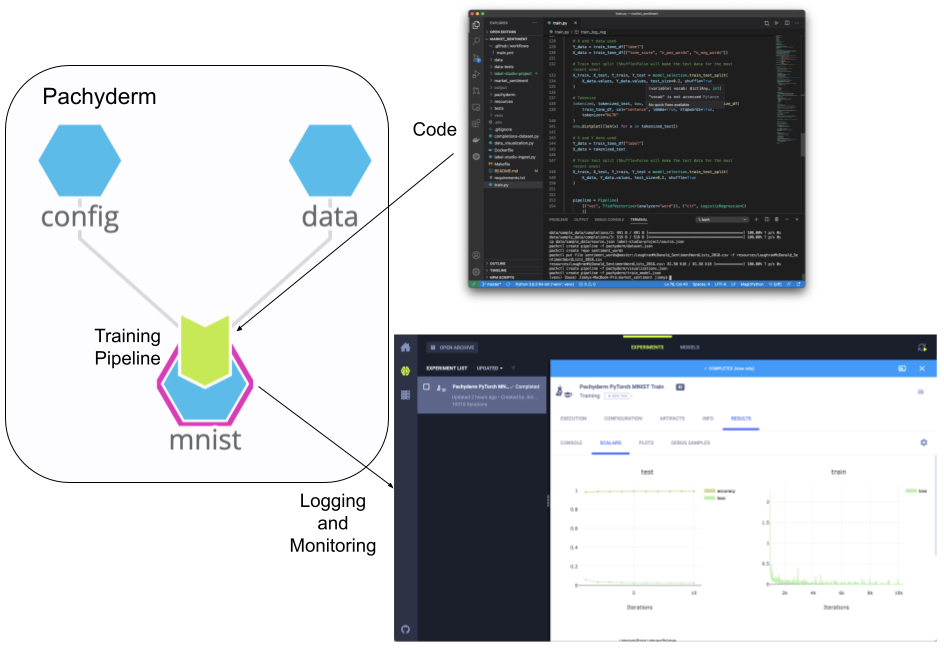
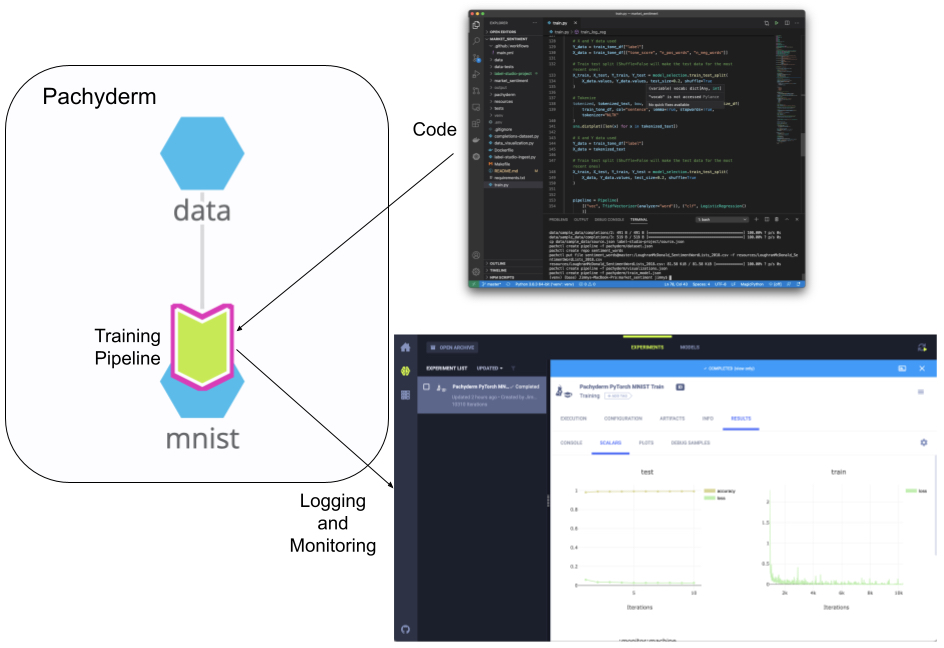
Converted credentials to pachyderm secret.

diff --git a/README.md b/README.md
@@ -11,8 +11,12 @@ This is a simple integration example where we use ClearML for monitoring our job
 
 1. [Spin up Pachyderm](https://hub.pachyderm.com/landing?redirect=%2F) (Using Pachyderm Hub) and connect to it.
 2. [Spin up ClearML](https://app.community.clear.ml) (Using ClearML Hosted Community Edition)
-3. [Create a ClearML config](https://allegro.ai/clearml/docs/docs/deploying_clearml/clearml_config_for_clearml_server.html#configuring-clearml-for-your-clearml-server). Copy the config to this directory as `clearml.conf` (this will be copied to a Pachyderm data repository so that it is not stored in the Docker image itself, but this should be changed in the future).
-4. Run the `make all`
+3. [Create a ClearML config](https://allegro.ai/clearml/docs/docs/deploying_clearml/clearml_config_for_clearml_server.html#configuring-clearml-for-your-clearml-server).
+4. Copy the access credentials' `CLEARML_API_ACCESS_KEY` and `CLEARML_API_SECRET_KEY` into the `secrets.json` file. We'll use this file to make a [Pachyderm secret](https://docs.pachyderm.com/latest/reference/pachctl/pachctl_create_secret/). This keeps our access keys from being built into our container or put in plaintext somewhere.
+5. Create the secret with `pachctl create secret -f secrets.json`
+6. Run `make all` to create a data repository and the pipeline. 
+
+Note: At the moment, for simplicity we load the download the data inside the python script and not from the data repository. This saved download and upload times from my local system during development. Thus, to kick off the pipeline, I add an empty file, which is a new commit to Pachyderm. 
 
 ## MNIST example
 
@@ -22,9 +26,9 @@ This is a simple integration example where we use ClearML for monitoring our job
 - If the Data or Pachyderm Pipeline changes, it kicks off a new training process.
 
 
-## Not Supported
+## Not Supported Yet
 
+- Create a more robust example than MNIST.
 - Multi-GPU - ClearML has some really cool features here, but right now Pachyderm is executing the job in a single Pod. 
-
-## To Fix
-- Move config is hardcoded
+- Consistent naming of runs between Pachyderm and ClearML - we would ideally like to have the jobs use the same hash ID. 
+- Add commit or branch information to the model referenced by ClearML
